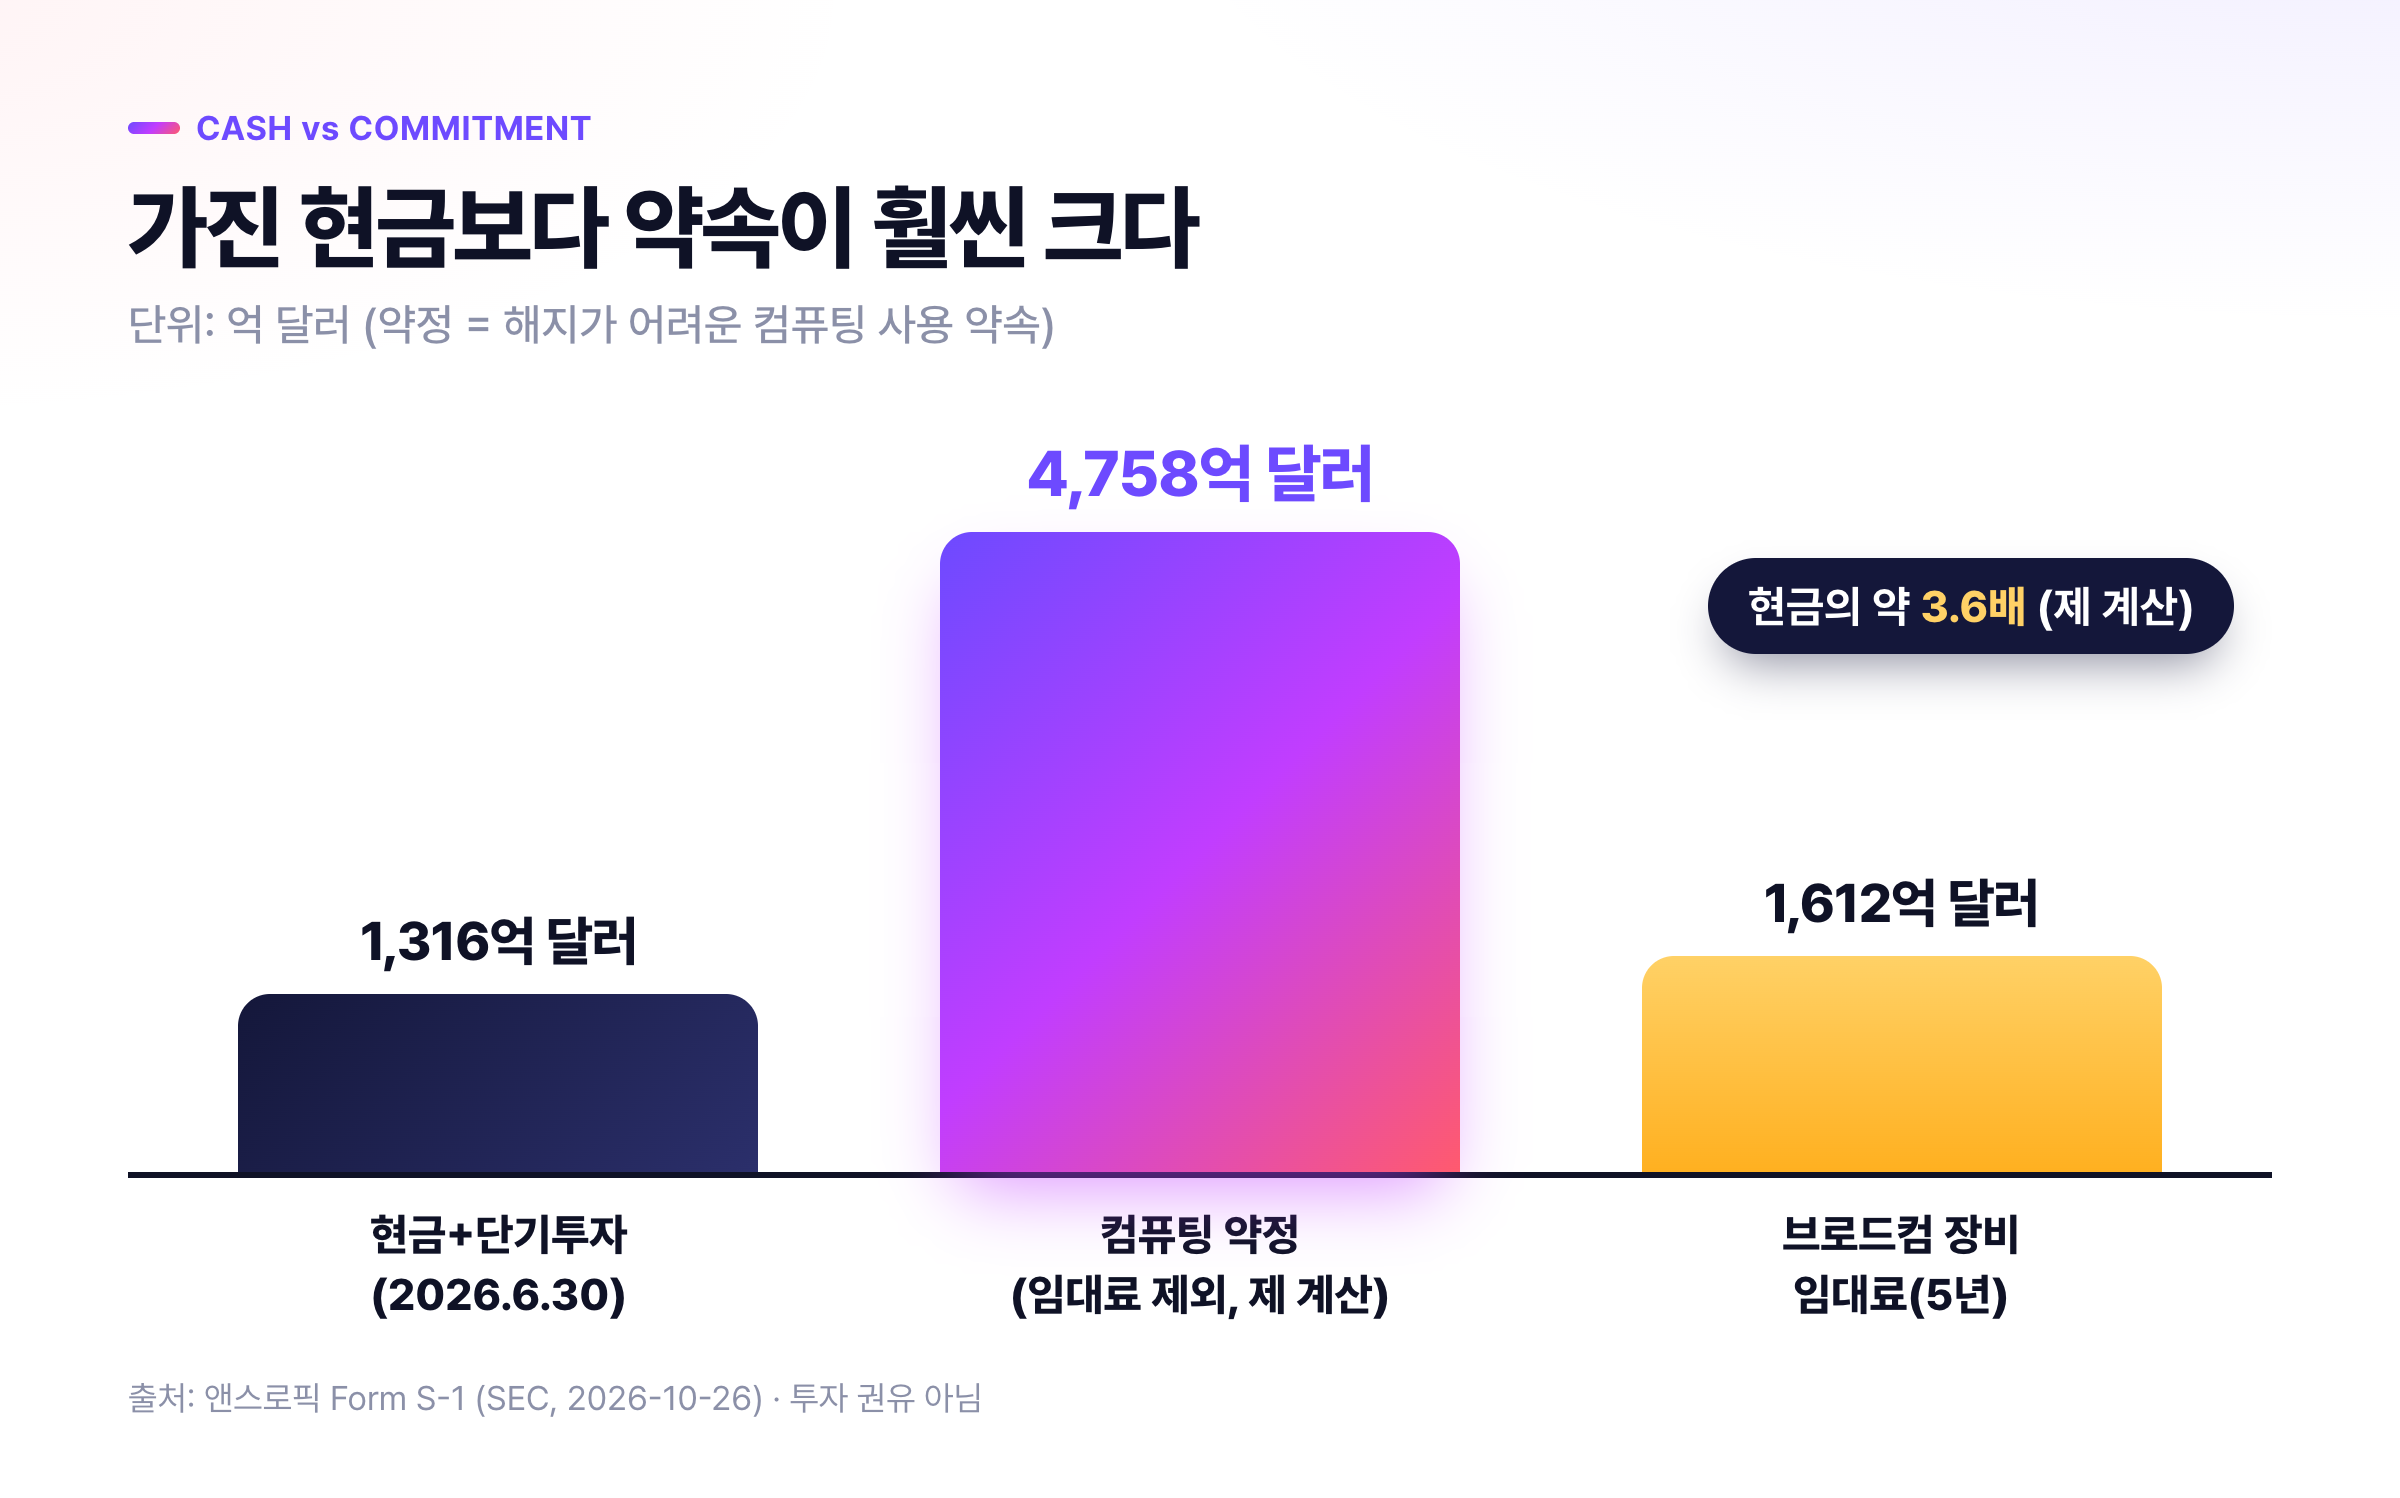
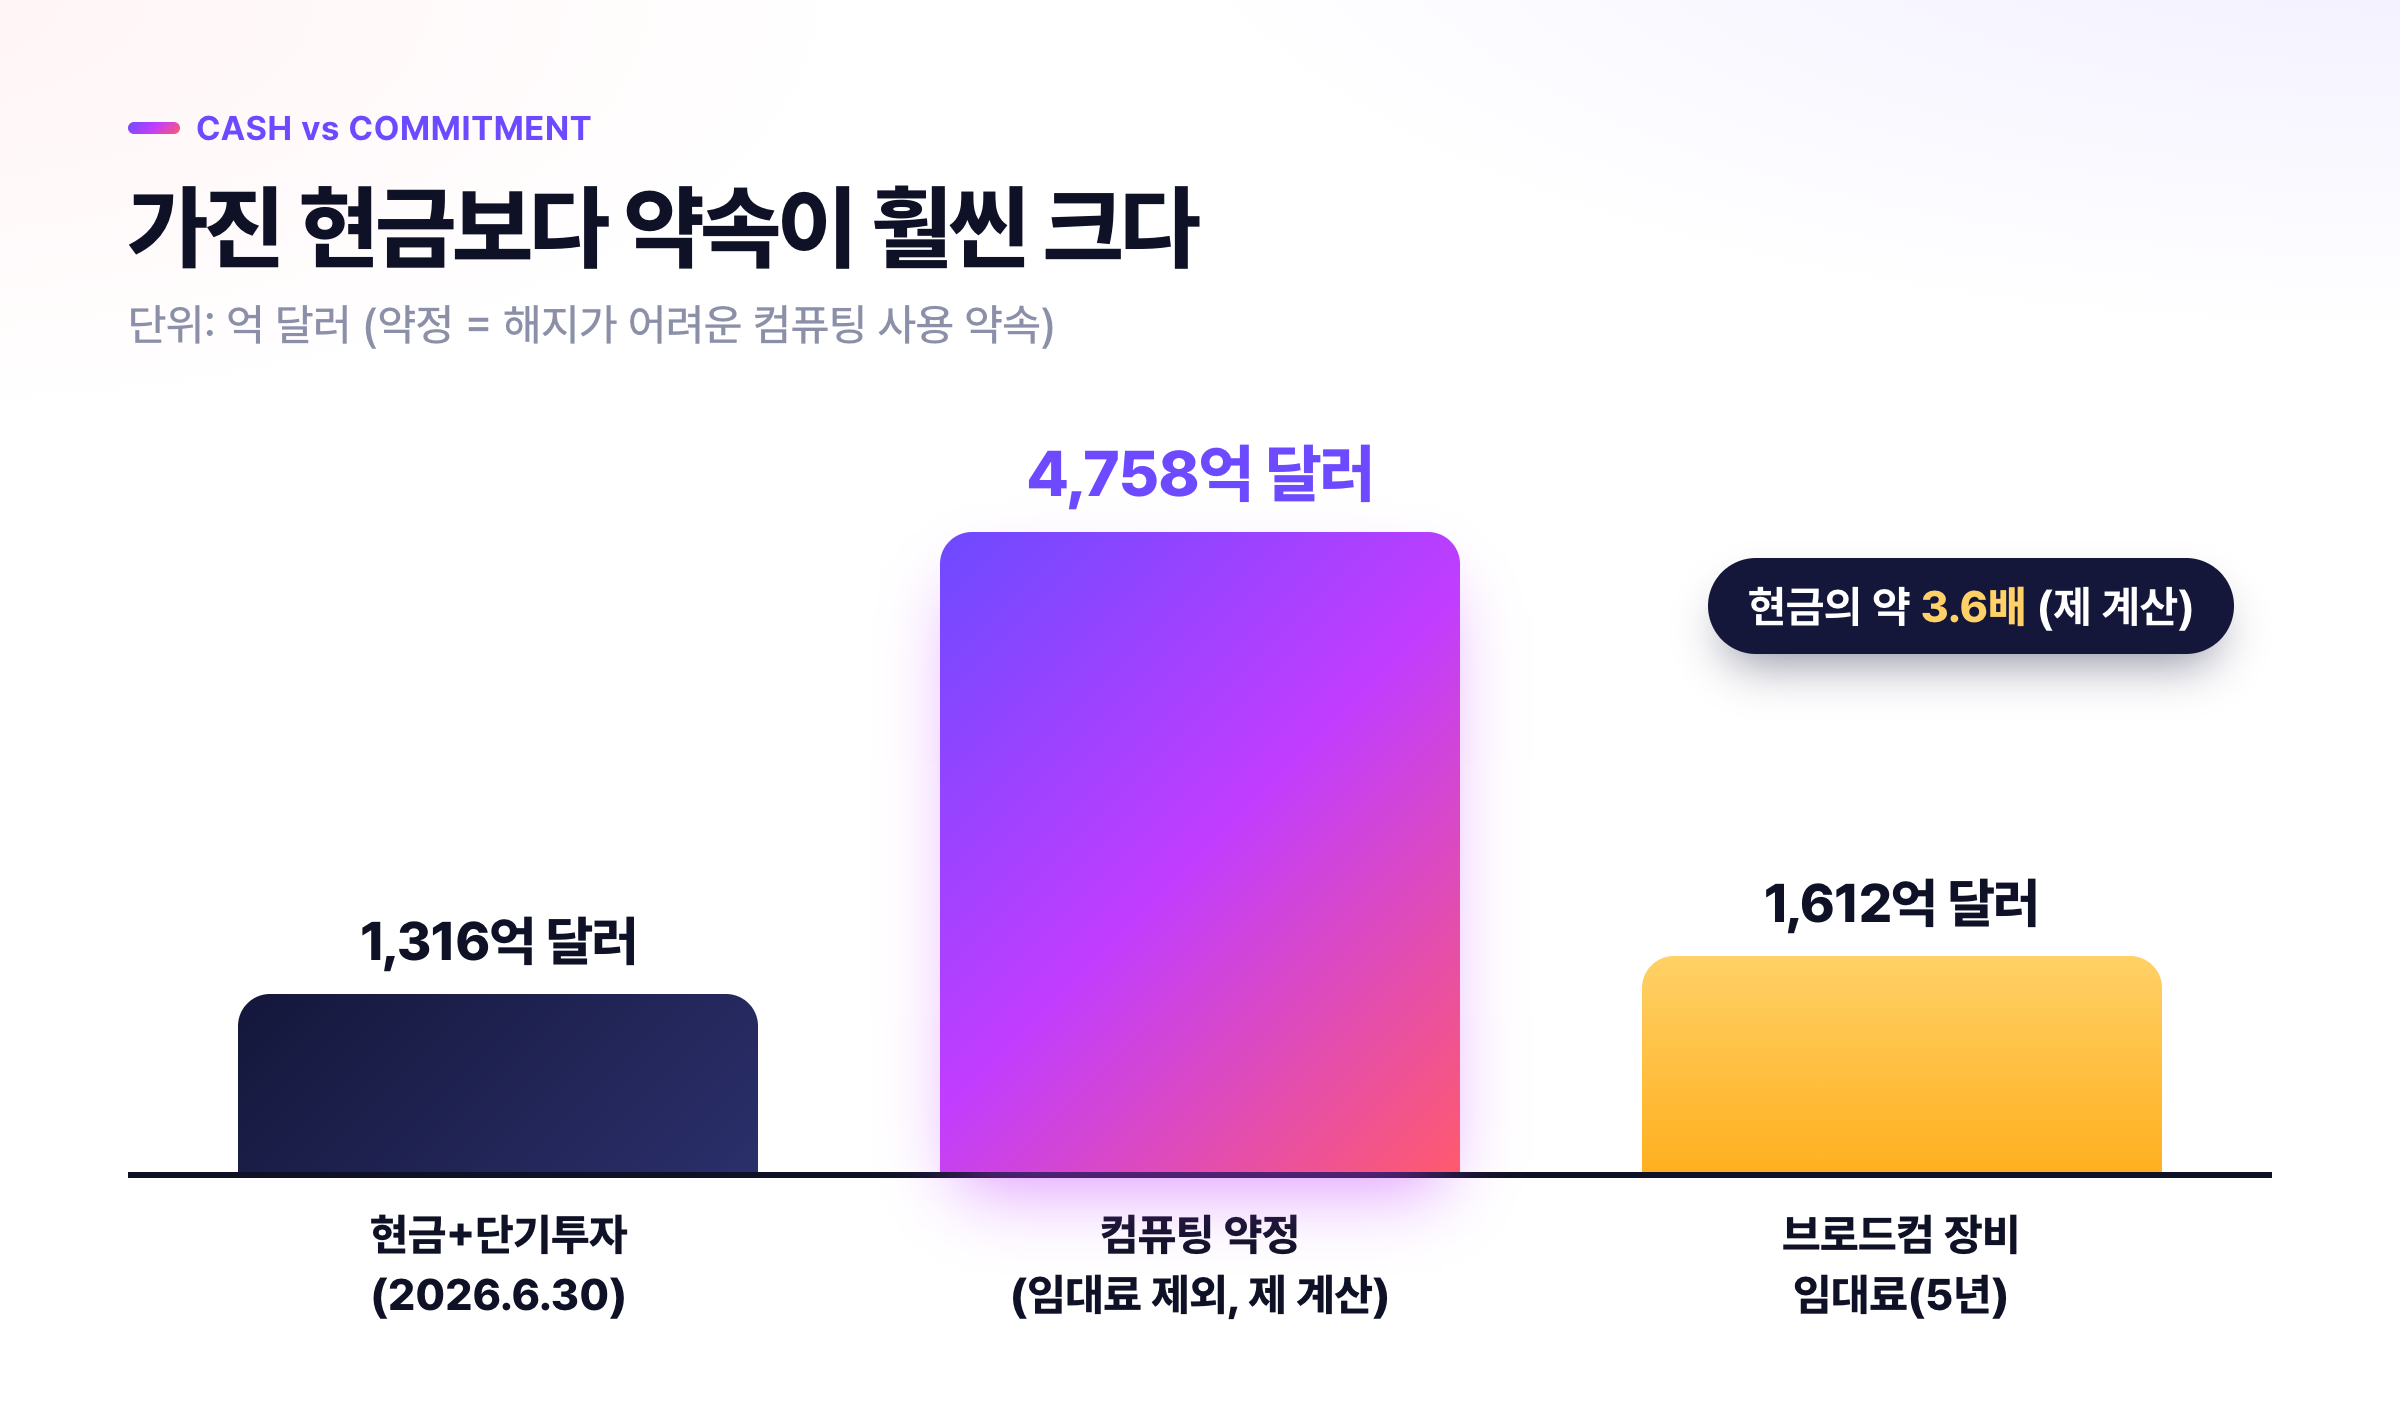
blog: 사진 출처 상세주소·차트 출처줄 삭제, 글 끝에 투자 유의사항 추가, 글 목록 밑줄 제거
Claude-Session: https://claude.ai/code/session_01Bns3n3seMLcdwcSmqdG1bf

diff --git a/public/charts/infochart.js b/public/charts/infochart.js
@@ -2,7 +2,6 @@
    스크롤로 화면에 들어오면 막대가 자라고 숫자가 올라가며, 마우스를 올리거나 눌러 설명을 볼 수 있다.
    자바스크립트가 꺼져 있으면 자리 안에 넣어 둔 이미지가 그대로 보인다. */
 (function () {
-  var SRC = '출처: 앤스로픽 Form S-1 (SEC, 2026-10-26) · 투자 권유 아님';
   var reduce = matchMedia('(prefers-reduced-motion: reduce)').matches;
 
   // ---- 숫자 올라가기 -----------------------------------------------------
@@ -33,10 +32,10 @@
   }
 
   // ---- 공통 틀 -----------------------------------------------------------
-  function card(c, inner, extraSrc) {
+  function card(c, inner) {
     return '<div class="ic__card"><button type="button" class="ic__replay" aria-label="애니메이션 다시 보기">↻ 다시 보기</button>' +
       '<div class="ic__kicker"><i></i>' + c.kicker + '</div><div class="ic__t" role="heading" aria-level="3">' + c.title + '</div>' +
-      '<div class="ic__sub">' + c.sub + '</div>' + inner + '<div class="ic__src">' + (extraSrc || SRC) + '</div></div>';
+      '<div class="ic__sub">' + c.sub + '</div>' + inner + '</div>';
   }
   function pills(list) {
     if (!list) return '';
